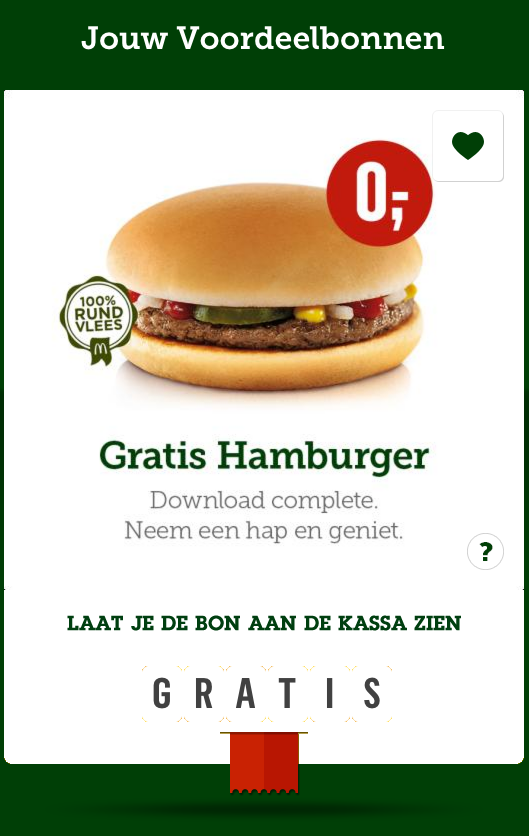
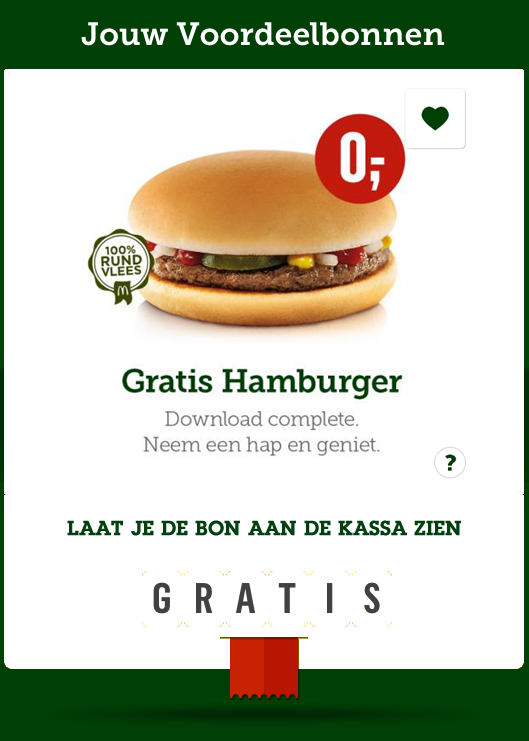
Made smaller for iphone 4 screens

diff --git a/index.html b/index.html
@@ -20,7 +20,7 @@
 		position:absolute;
 		top:0;
 		background:url("background.png");
-		height:836px;
+		height:756px;
 		width:529px;
 		position:relative;
 		z-index:10;
@@ -29,7 +29,7 @@
 		position:absolute;
 		width:526px;
 		height:173px;
-		top:582px;
+		top:502px;
 		z-index:0;
 		background:url("pattern.png");
         -webkit-animation: movePattern 7s infinite linear;
@@ -44,7 +44,7 @@
 		text-align:center;
 		font-family:Monaco, courier;
 		font-weight:bold;
-		margin:750px 0 0 238px;
+		margin:655px 0 0 238px;
 		position:absolute;
 	}
 </style>
